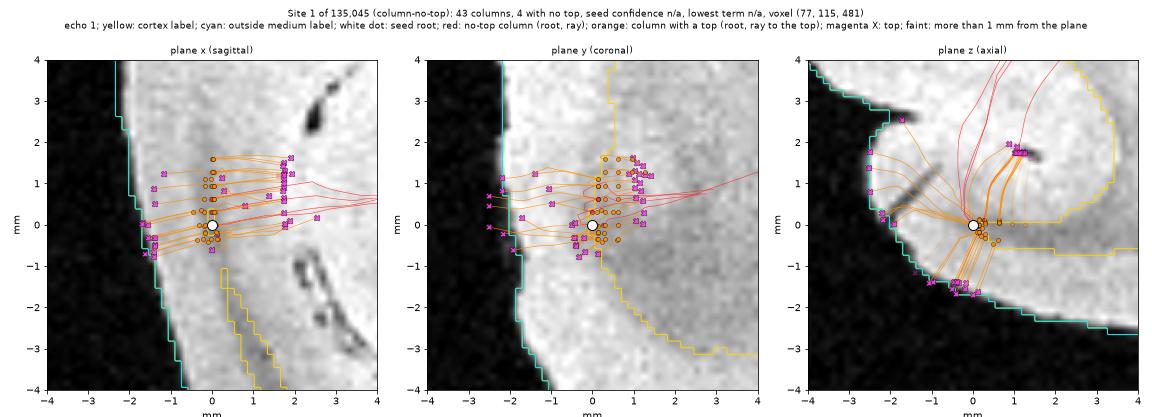
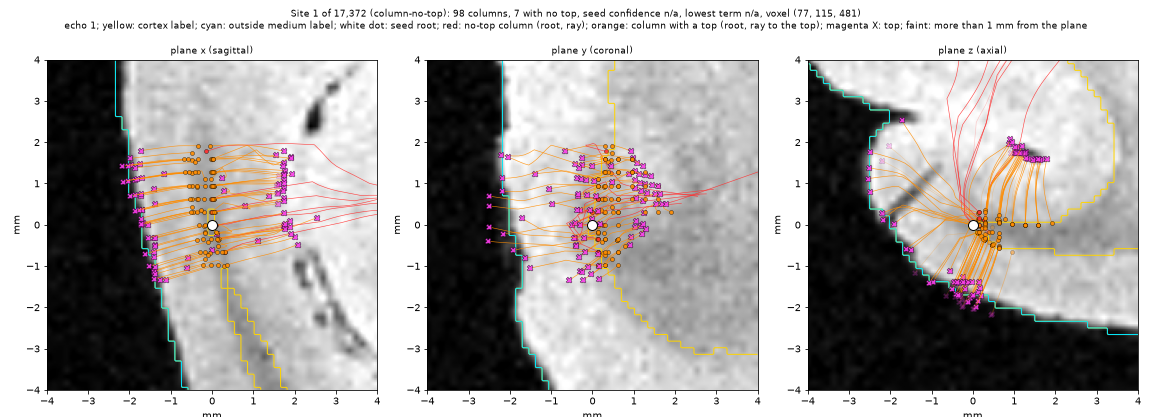
feat(column-sites): merge touching lows into one site
The user's decision on the join rule ("Merge lows that touch"): when a
column joins a site, each other site that it touches, with a later seed,
merges into that site if all its columns stay within R of the site's seed.
The merged site keeps the lowest seed. No confidence threshold.

- column_sites.group_columns: the merge step, with member lists.
- Tests: two touching lows give one site; a chain of lows longer than R
  still splits; a site with a column beyond R does not merge.
- Plan and format doc: the rule, the new hemisphere result and R table;
  open item 1 removed.
- Figures: new site counts and five site views.

Hemisphere, R = 2 mm: 17,372 sites (was 135,045), 190 one-column sites
(was 43,842), median 60 columns per site.

diff --git a/src/baillarger/column_sites.py b/src/baillarger/column_sites.py
@@ -22,6 +22,10 @@ the sites use no confidence threshold (group_columns):
    (its seed). With more than one such site, it joins the site with the
    earliest seed.
 3. Otherwise, the column starts a new site and is its seed.
+4. Touching lows merge: each other site that the column touches, with a
+   later seed, merges into the column's site if all its columns are within
+   radius mm of the column's site's seed. The merged site keeps that seed,
+   the lowest of the seeds.
 
 Each column is in exactly one site. The sites are in the order of their
 seeds. A site's score is its seed's confidence, and its voxel is its seed's
@@ -196,21 +200,38 @@ def group_columns(order: Int, edges: Int, pos: Float, radius: float) -> Grouping
     ptr, nbr = A.indptr, A.indices
     site = np.full(n, -1, np.int64)
     seeds: list[int] = []
+    members: list[list[int]] = []
     r2 = radius * radius
     for c in order.tolist():
+        near = sorted({int(site[q]) for q in nbr[ptr[c] : ptr[c + 1]].tolist()} - {-1})
         best = -1
-        for q in nbr[ptr[c] : ptr[c + 1]].tolist():
-            s = int(site[q])
-            if s < 0 or (best >= 0 and s >= best):
-                continue
+        for s in near:
             d = pos[c] - pos[seeds[s]]
             if float(d @ d) <= r2:
                 best = s
+                break
         if best < 0:
             best = len(seeds)
             seeds.append(c)
+            members.append([])
         site[c] = best
-    return Grouping(site, np.array(seeds, np.int64))
+        members[best].append(c)
+        # a touching site with a later seed merges, if all its columns are
+        # within the radius of this site's seed
+        p0 = pos[seeds[best]]
+        for s in near:
+            if s <= best or not members[s]:
+                continue
+            m = members[s]
+            d2 = ((pos[m] - p0) ** 2).sum(1)
+            if float(d2.max()) <= r2:
+                site[m] = best
+                members[best].extend(m)
+                members[s] = []
+    kept = np.array([s for s in range(len(seeds)) if members[s]], np.int64)
+    new = np.full(len(seeds), -1, np.int64)
+    new[kept] = np.arange(len(kept))
+    return Grouping(new[site], np.array(seeds, np.int64)[kept])
 
 
 def column_causes(top_k: npt.ArrayLike, terms: npt.ArrayLike, names: Any) -> Int:

diff --git a/tests/test_column_sites.py b/tests/test_column_sites.py
@@ -43,10 +43,42 @@ def test_grouping_on_a_chain_as_computed_by_hand() -> None:
     order = np.array([3, 0, 1, 2, 4, 5, 6, 7])
     g = C.group_columns(order, edges, pos, 2.5)
     # 3 seeds site 0; 0 seeds site 1; 1 joins 0's site; 2 touches both sites
-    # and joins the earlier seed (3); 4 and 5 are within 2.5 mm of 3; 6 is
-    # 3 mm from 3 and seeds site 2; 7 joins it.
+    # and joins the earlier seed (3). The sites do not merge: column 0 is 3 mm
+    # from seed 3. 4 and 5 are within 2.5 mm of 3; 6 is 3 mm from 3 and seeds
+    # site 2; 7 joins it.
     assert g.seeds.tolist() == [3, 0, 6]
     assert g.site.tolist() == [1, 1, 0, 0, 0, 0, 2, 2]
+
+
+def test_touching_lows_merge_into_one_site() -> None:
+    pos, edges = chain(5)
+    # lows at 1 and 3 (in that order); 2 touches both
+    g = C.group_columns(np.array([1, 3, 0, 2, 4]), edges, pos, 2.5)
+    # 1 seeds site 0, 3 seeds site 1, 0 joins site 0. 2 joins site 0 (seed 1,
+    # the earlier seed); site 1 (column 3, 2 mm from seed 1) merges into it.
+    # 4 is 3 mm from seed 1 and seeds a new site.
+    assert g.seeds.tolist() == [1, 4]
+    assert g.site.tolist() == [0, 0, 0, 0, 1]
+
+
+def test_a_chain_of_lows_longer_than_the_radius_still_splits() -> None:
+    pos, edges = chain(9)
+    order = np.array([0, 2, 4, 6, 8, 1, 3, 5, 7])  # lows at the even columns
+    g = C.group_columns(order, edges, pos, 2.0)
+    # 1 joins seed 0 and the site of 2 merges into it. 3 is 3 mm from seed 0,
+    # so it joins seed 4. 5 joins seed 4 and the site of 6 merges into it.
+    # 7 is 3 mm from seed 4, so it joins seed 8.
+    assert g.seeds.tolist() == [0, 4, 8]
+    assert g.site.tolist() == [0, 0, 0, 1, 1, 1, 1, 2, 2]
+
+
+def test_a_site_merges_only_if_all_its_columns_stay_within_the_radius() -> None:
+    pos, edges = chain(5)
+    # 1 seeds site 0; 3 seeds site 1 and takes 4; 0 joins site 0. 2 joins
+    # site 0, but column 4 is 3 mm from seed 1: site 1 does not merge.
+    g = C.group_columns(np.array([1, 3, 4, 0, 2]), edges, pos, 2.5)
+    assert g.seeds.tolist() == [1, 3]
+    assert g.site.tolist() == [0, 0, 0, 1, 1]
 
 
 def test_a_chain_longer_than_the_radius_gives_more_sites() -> None:

diff --git a/docs/plans/column-sites.md b/docs/plans/column-sites.md
@@ -47,6 +47,10 @@ review pane.
    (no top, non-WM signal behind the root, other) and its dominant cause,
    for the catalogue of error types. The causes do not split the sites.
 4. The site voxel is the seed's root, rounded to the dseg grid.
+5. Lows that touch merge ("Merge lows that touch"). A site whose seed is a
+   nearby local low merges into a touching site with a lower seed, if all
+   its columns stay within `R` of that seed. There is no confidence
+   threshold.
 
 ### A separate format, `column-sites/1`
 
@@ -80,6 +84,10 @@ uses no confidence threshold:
    `R` mm round the site's first column (the seed). With more than one such
    site, it joins the site with the earliest seed.
 3. Otherwise the column starts a new site and is its seed.
+4. Lows that touch merge. The column can touch other sites with a later
+   seed than its own site. Each such site merges into the column's site if
+   all its columns are within `R` mm of the column's site's seed. The
+   merged site keeps that seed, the lowest of the seeds.
 
 Each column is in one site. The site's score is its seed's confidence. The
 sites are in the order of their seeds. The site voxel is the seed's root,
@@ -116,6 +124,9 @@ nothing. They help the reviewer and the diagnostics.
 - No column is in two sites. Every column is in one site.
 - A site stays inside radius `R` of its seed.
 - A chain of columns longer than `R` gives more than one site.
+- Two touching lows give one site, with the lower seed. A chain of lows
+  longer than `R` still gives more than one site. A site does not merge if
+  one of its columns is more than `R` from the lower seed.
 - The write and read of the files give the same rows. The sidecar passes
   `SidecarSpec`. `tests/test_bids.py` checks the format document.
 - A `wm-edits/1` log takes a session on the column queue, a `shown` record
@@ -135,58 +146,65 @@ views, not pass or fail rules. The script is
 
 ## The hemisphere result (right hemisphere, `R` = 2 mm)
 
+Inputs: the stage's outputs as before, and the `derivatives-main` dseg after
+#156 (the ventricle labels are 0). The stage's outputs do not change with it.
+
 | Measure | Value |
 |---|---|
 | Columns / edges of the column graph | 1,179,148 / 3,533,569 |
-| Sites | 135,045 |
-| Sites by kind | 10,860 `column-no-top`, 124,185 `column-top` |
-| Columns per site, p10 / 50 / 90 / 99 / max | 1 / 3 / 25 / 66 / 179 |
-| Sites with one column | 43,842 (1,517 of them in the first 5 % of the column queue) |
-| Sites that hold the first 1 % / 5 % / 20 % of the column queue | 2,539 / 11,321 / 48,134 |
-| Run time, peak memory | about 1 min, 2.9 GB |
+| Sites | 17,372 |
+| Sites by kind | 4,261 `column-no-top`, 13,111 `column-top` |
+| Columns per site, p10 / 50 / 90 / 99 / max | 18 / 60 / 128 / 193 / 377 |
+| Site extent (mm from the seed), p10 / 50 / 90 | 1.23 / 1.96 / 2.00 |
+| Sites with one column | 190 (22 are columns with no edge; 2 are in the first 5 % of the column queue) |
+| Sites that hold the first 1 % / 5 % / 10 % / 20 % of the column queue | 1,012 / 4,345 / 7,392 / 10,382 |
+| Run time, peak memory | about 20 s, 1.4 GB |
 
-All the no-top columns are in the first 10,860 sites.
+All the no-top columns are in the first 4,261 sites. Most sites now fill
+the ball of radius `R`.
 
 The causes:
 
 | Measure | `no-top` | `non-wm-behind-root` | `other` |
 |---|---|---|---|
 | Columns | 57,649 | 278,524 | 842,975 |
-| Sites with this dominant cause | 3,520 | 30,922 | 100,603 |
-| Dominant cause, first 1,000 sites | 263 | 196 | 541 |
-| Dominant cause, first 10,000 sites | 3,220 | 851 | 5,929 |
+| Sites with this dominant cause | 334 | 3,667 | 13,371 |
+| Dominant cause, first 1,000 sites | 56 | 181 | 763 |
+| Dominant cause, first 10,000 sites | 334 | 2,632 | 7,034 |
 
-A site with a no-top seed often has more columns with a top than with no
-top, so its dominant cause is not `no-top`. The `non_wm_behind_root` term
-of the `non-wm-behind-root` columns: p10 / 50 / 90 = −8.0 / −3.35 / −0.37.
-For 214,815 of the 278,524 columns it is below −1.
+A site with a no-top seed usually holds more columns with a top than with no
+top. Site 1, for example, holds 98 columns, and 7 of them have no top. So
+few sites have `no-top` as the dominant cause. The `no_top` count of a site
+shows its no-top columns. The `non_wm_behind_root` term of the
+`non-wm-behind-root` columns: p10 / 50 / 90 = −8.0 / −3.35 / −0.37. For
+214,815 of the 278,524 columns it is below −1.
 
-The sites are small. The radius has little effect:
+The radius sets the site size now:
 
-| `R` (mm) | Sites | One-column sites | Sites that hold the first 5 % |
-|---|---|---|---|
-| 1 | 148,633 | 39,858 | 13,729 |
-| 2 | 135,045 | 43,842 | 11,321 |
-| 4 | 132,542 | 44,294 | 10,406 |
-| 8 | 132,153 | 44,271 | 10,178 |
+| `R` (mm) | Sites | One-column sites | Median columns per site | Sites that hold the first 5 % |
+|---|---|---|---|---|
+| 1 | 59,701 | 1,753 | 18 | 8,864 |
+| 2 | 17,372 | 190 | 60 | 4,345 |
+| 4 | 4,611 | 31 | 224 | 1,853 |
+| 8 | 1,067 | 23 | 985 | 684 |
 
-The cause is the join rule, not the radius. Of 20,000 one-column sites with
-neighbours, 19,508 have only neighbours that come later in the queue. Each
-such neighbour has another neighbour in a site with an earlier seed, and
-joins that site. So a local low of the confidence stays alone. A change of
-the rule is the user's decision.
+With the first rule (no merge), `R` = 2 mm gave 135,045 sites, 43,842 of
+them with one column, and 11,321 sites held the first 5 %. With the merge
+rule, 168 one-column sites have neighbours. 11 of them have only later
+neighbours. 157 have an earlier neighbour whose site seed is more than `R`
+away.
 
 ![Site counts and sizes](../../reports/figures/column-sites/site_counts.png)
 
 ![Site 1, column-no-top](../../reports/figures/column-sites/site_1.png)
 
-![Site 6752 (5 % of the sites), column-no-top](../../reports/figures/column-sites/site_6752.png)
+![Site 868 (5 % of the sites), column-no-top](../../reports/figures/column-sites/site_868.png)
 
-![Site 10861, the first column-top site](../../reports/figures/column-sites/site_10861.png)
+![Site 3474 (20 % of the sites), column-no-top](../../reports/figures/column-sites/site_3474.png)
 
-![Site 27009 (20 % of the sites)](../../reports/figures/column-sites/site_27009.png)
+![Site 4262, the first column-top site](../../reports/figures/column-sites/site_4262.png)
 
-![Site 67522 (50 % of the sites)](../../reports/figures/column-sites/site_67522.png)
+![Site 8686 (50 % of the sites)](../../reports/figures/column-sites/site_8686.png)
 
 *Echo 1, three world planes through the seed root, ±4 mm. Yellow: cortex
 label. Cyan: outside medium label. White dot: the seed root. Red: a column
@@ -195,9 +213,6 @@ top). Magenta X: a top. Faint markers are more than 1 mm from the plane.*
 
 ## Open items (the user's)
 
-1. The join rule. The radius does not make the sites larger. One option:
-   let a later column also join a site whose seed is a lower local value
-   within `R`, so that local lows merge.
-2. The order of tied columns. All no-top columns have the confidence
+1. The order of tied columns. All no-top columns have the confidence
    `-inf`. The stage's rank orders them by column index.
-3. The review pane does not read `column-sites/1` yet. That is a later step.
+2. The review pane does not read `column-sites/1` yet. That is a later step.

diff --git a/docs/formats/column-sites.md b/docs/formats/column-sites.md
@@ -48,8 +48,12 @@ for `n/a`). The session records the SHA-256 of this table as its
    of that site's first column, its seed. With more than one such site, it
    joins the site with the earliest seed.
 3. Otherwise, the column starts a new site and is its seed.
+4. Lows that touch merge. Each other site that the column touches, with a
+   later seed than the column's site, merges into the column's site if all
+   its columns are within `RadiusMm` of the column's site's seed. The merged
+   site keeps that seed, the lowest of the seeds.
 
-So each site is connected on the column graph, and all its columns are
+There is no confidence threshold. So each site is connected on the column graph, and all its columns are
 within `RadiusMm` of its seed. `RadiusMm` is the size of one review view,
 not a measure of correctness. The default is 2 mm.
 
